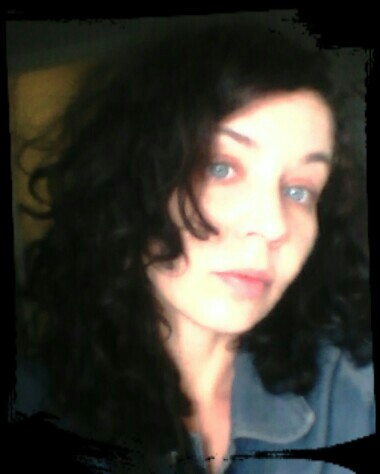
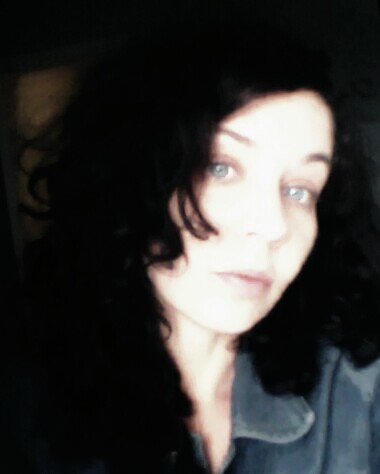
fonts changes

diff --git a/style.css b/style.css
@@ -9,6 +9,12 @@
     url(fonts/handlee-regular.eot), url(fonts/handlee-regular.woff), url(fonts/handlee-regular.woff2);
 }
 
+@font-face {
+    font-family: Airbag;
+    src: url(fonts/AirbagFree-Regular.ttf),
+    url(fonts/Airbag-Regular.otf);
+}
+
 body, header, svg, div, p, a, h1, h2, img, figure, ul, li, footer{
 	margin: 0;
 	padding: 0;
@@ -20,7 +26,7 @@ body{
 	background-color: black;
 	display: flex;
 	flex-direction: column;
-	font-family: Handlee;
+	font-family: Jura;
 	/*overflow: hidden;*/
 }
 
@@ -34,7 +40,7 @@ header{
 	display: flex;
 	flex-direction: row;
 	justify-content: space-between;
-	font-family: Handlee;
+	font-family: Stalemate;
 	z-index: 9;
 	width: 100%;
 	height: 12vh;
@@ -166,7 +172,7 @@ ul li{
 		}
 
 		.menuWide li a{
-			width: 18vh;
+			width: auto;
 			display: inline-block;
 			padding: 0 3vh;
 			border-left: 1px solid black;
@@ -179,9 +185,10 @@ ul li{
 
 
 		.menuWide a, .menuHamburger a{
+			font-size: 6vh;
 			text-align: center;
 			text-decoration: none;
-			color: darkgrey;
+			color: white;
 		}
 
 
@@ -214,9 +221,9 @@ img.cloud2{
 }
 
 div.translatingCloud2{	
-	animation: translating_cloud2 6s linear 0s 1 forwards;
 	-webkit-animation: translating_cloud2 6s linear 0s 1 forwards;
 	-moz-animation: translating_cloud2 6s linear 0s 1 forwards;
+	animation: translating_cloud2 6s linear 0s 1 forwards;
 }
 
 div.storm1{
@@ -249,8 +256,19 @@ div.storm2{
 	left: 0;
 	width: 100%;
 	height: 88vh;
+	
+	}
+
+.home1Box{
+	position: absolute;
+	top: 20%;
+	left: 20%;
 	display: flex;
 	flex-direction: row;
+	width: 60%;
+	height: 60%;
+    background-color: rgba(250, 250, 250, 0.1);
+    border-radius: 1%;
 }
 
 div.photoMe{
@@ -262,24 +280,24 @@ div.photoMe{
 img.photoMe{
 	height: 40vh;
 	width: auto;
-	border-radius: 5%;
-	margin-left: 50%;
-	margin-top: 25vh;
+	border-radius: 3%;
+	margin-left: 10%;
+	margin-top: 5vh;
 	box-sizing: border-box;
 }
 
 .home2{
 	display: inline-block;
 	z-index: 2;
-	margin-right: 20%;
-	margin-top: 37vh;
+	margin-right: 10%;
+	margin-top: 17vh;
 	box-sizing: border-box;
 	display: flex;
 	flex-direction: column;
 }
 
 #home h1, #home h2{
-	font-family: Handlee;
+	font-family: Amaranth;
 	color: white;
 	text-shadow: 3px 3px 3px black, -3px -3px 3px black;
 }
@@ -288,13 +306,19 @@ img.photoMe{
 	width: 100%;
 	height: 10vh;
 	text-align: center;
-	font-size: 4.2vh;
+	font-size: 8.2vh;
+	font-family: Stalemate;
 }
 
 #home h2{
 	width: 100%;
 	height: 10vh;
 	text-align: center;
+}
+
+.home2 h1 span{
+	color: black;
+	text-shadow: 3px 3px 3px white, -3px -3px 3px white;
 }
 
 footer{
@@ -338,7 +362,7 @@ footer p{
 
 @-webkit-keyframes translating_cloud2{
 	0%{transform: scale(0) translate(80vw, -100vh);}
-	65%{transform: scale(1.5) translate(0%, 0%);}
+	65%{transform: scale(1.5) translate(0, 0);}
 	75%{transform: scale(1.5);}
 	90%{transform: translateX(70vw);}
     95%{transform: translateX(67vw);}
@@ -432,9 +456,16 @@ footer p{
 	}
 
 	div.home1{
+		width: 100%;
+	}
+
+	div.home1Box{
+		width: 92%;
+		height: 90%;
+		left: 4%;
+		top: 2%;
 		flex-direction: column;
 		justify-content: center;
-		width: 100%;
 	}
 
 	div.photoMe{

diff --git a/index.html b/index.html
@@ -7,6 +7,9 @@
 	<meta name="viewport" content="width=device-width, initial-scale=1">
     <link rel="stylesheet" href="style.css" media="screen" title="no title">
 	<link href="https://fonts.googleapis.com/css?family=Roboto:300,400,500,700,900" rel="stylesheet">
+	<link href="https://fonts.googleapis.com/css?family=Jura" rel="stylesheet"> 
+	<link href="https://fonts.googleapis.com/css?family=Amaranth" rel="stylesheet">
+	<link href="https://fonts.googleapis.com/css?family=Stalemate" rel="stylesheet">  
 </head>
 
 <body>
@@ -24,18 +27,18 @@
 			<div class="bar3"></div>
 
 			<ul class="menuHamburger">
-			    <li><a href="#">HOME</a></li>
-				<li><a href="#about">ABOUT ME</a></li>
-				<li><a href="#portfolio">PORTFOLIO</a></li>
-				<li><a href="#contact">CONTACT</a></li>
+			    <li><a href="#">Home</a></li>
+				<li><a href="#aboutMe">About Me</a></li>
+				<li><a href="#portfolio">Portfolio</a></li>
+				<li><a href="#contact">Contact</a></li>
 			</ul>
 		</nav>
 
 		<ul class="menuWide">
-			<li><a href="#">HOME</a></li>
-			<li><a href="#">ABOUT ME</a></li>
-			<li><a href="#portfolio">PORTFOLIO</a></li>
-			<li><a href="#contact">CONTACT</a></li>
+			<li><a href="#">Home</a></li>
+			<li><a href="#aboutMe">About Me</a></li>
+			<li><a href="#portfolio">Portfolio</a></li>
+			<li><a href="#contact">Contact</a></li>
 		</ul>
 	</header>
 
@@ -45,11 +48,23 @@
 		</div>
 		
 		<div class="home1 headerDelay">
-			<div class="photoMe"><img src="images/me.png" class="photoMe"></div>
-			<div class="home2">
-				<h1 class="">ALICE DRANSFIELD</h1>
-				<h2 class="">Front End Web Developer</h2>
-			</div>
+			<div class="home1Box">
+				<div class="photoMe"><img src="images/Me.jpg" class="photoMe"></div>
+				<div class="home2">
+					<h1 class="">{ <span>A</span>lice <span>D</span>ransfield <span>}</span></h1>
+					<h2 class="">Front End Web Developer</h2>
+				</div>
+		    </div>
+		</div>
+	</section>
+
+	<section id="aboutMe">
+		<div class="chronoList">
+			
+		</div>
+
+		<div>
+			
 		</div>
 	</section>
 
